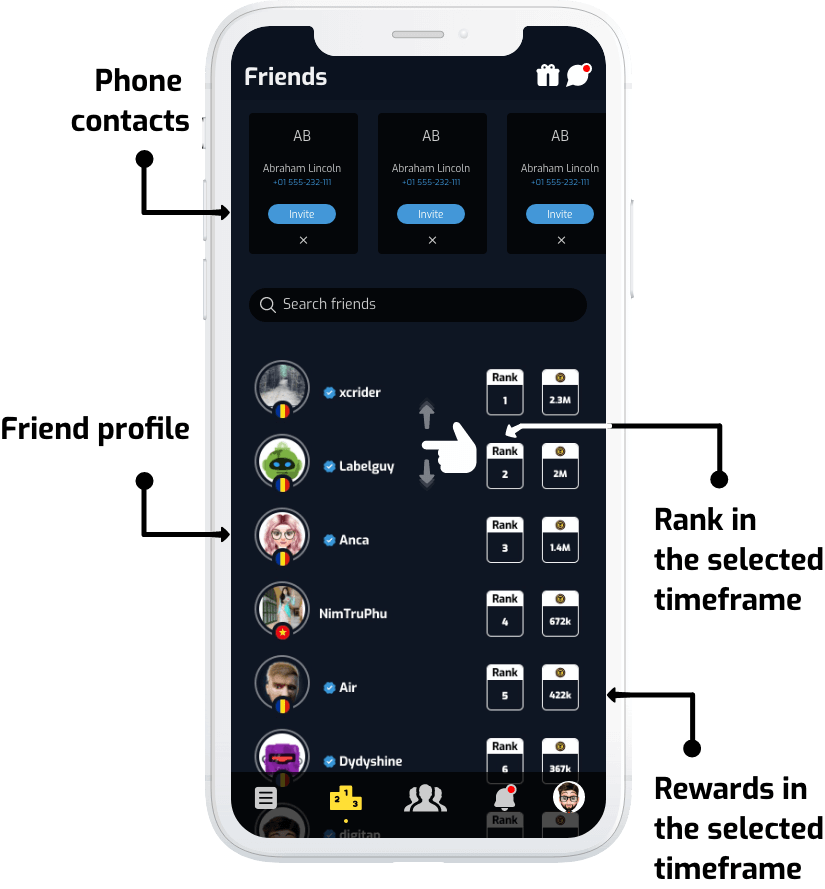
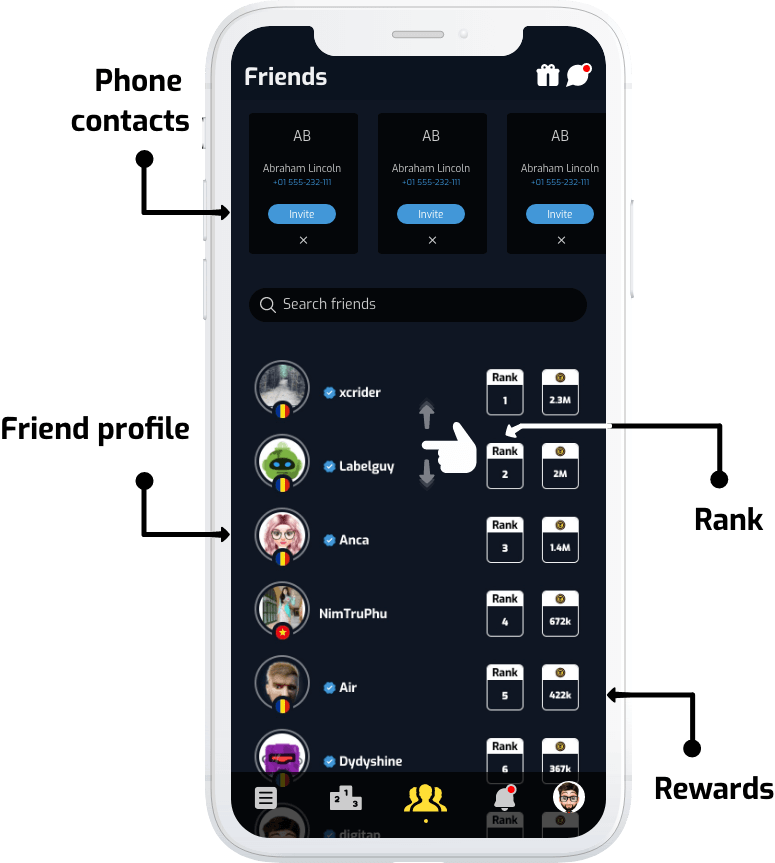
GitBook: [#46] removed wallet and chat from platform

Changed region(s): [[0.0, 0.0, 1.0, 1.0], [0.4645, 0.0301, 0.5574, 0.0603]]

diff --git a/the-platform.md b/the-platform.md
@@ -19,7 +19,7 @@ description: >-
 {% endtab %}
 
 {% tab title="Friends" %}
-![](.gitbook/assets/wam\_appintro\_friends.png)
+![](<.gitbook/assets/wam\_appintro\_friends (1).png>)
 {% endtab %}
 
 {% tab title="Notifications" %}
@@ -27,15 +27,7 @@ description: >-
 {% endtab %}
 
 {% tab title="Account" %}
-
-{% endtab %}
-
-{% tab title="Wallet" %}
-
-{% endtab %}
-
-{% tab title="Chat" %}
-
+![](.gitbook/assets/wam\_appintro\_account.png)
 {% endtab %}
 {% endtabs %}
 
